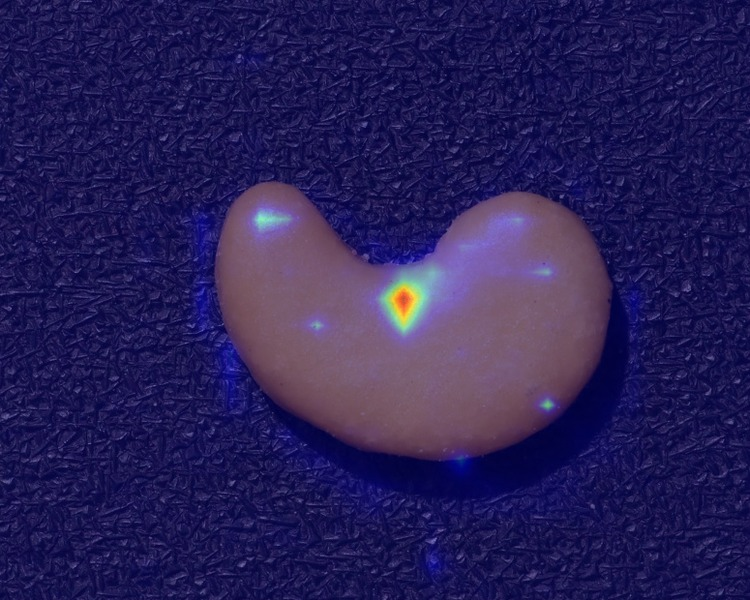
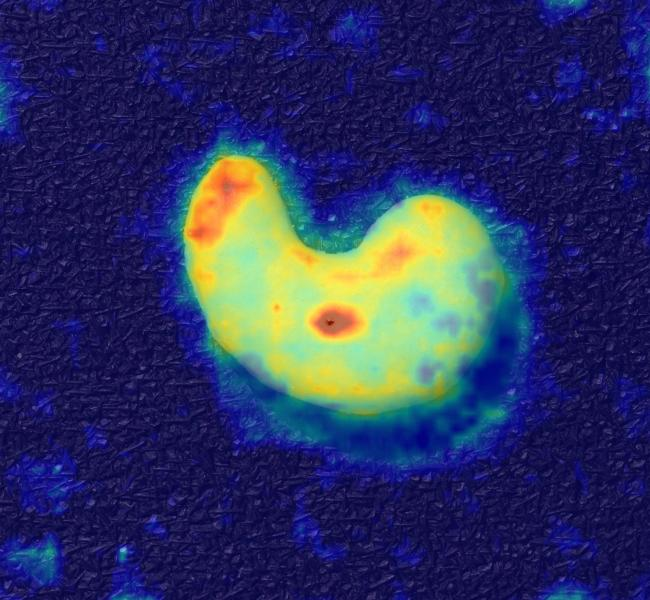
Add VisA-D&R dialogue figure from the reported checkpoint
- New Fig. fig:text: three VisA-D&R conversations (cashew, pipe fryum,
  pcb3) of GenAU-7B, verbatim from the run scored in Table 4, chosen at the
  class-median GPT-Score; per-answer GPT-4o scores shown
- Anomaly maps read out from the first-turn segmentation tokens in a re-run
  of that turn on the same 1024-px input
- Paragraph noting that the maps are more reliable than the first-turn text
- Update TODO

diff --git a/sec/7_appendix.tex b/sec/7_appendix.tex
@@ -428,6 +428,8 @@ We provide additional anomaly maps of GenAU-7B for five products, each with eigh
 
 On the tubes, the deformed tube receives the strongest response in most images, while the intact tubes show a weaker, uniform activation. On the capsules, large defects such as leaks and misshapes are localized clearly, but small bubbles and discolorations receive only weak responses, and one map shows a diffuse response over the background. On the pipe fryum, breakage and spots near the edges are localized, while scratches are covered only coarsely and the object surface is moderately activated throughout. On the Real-IAD mounts, missing parts and pits are localized, but a contamination at the inner rim of the hole is missed (first image). On the rolled strip base, the defects are localized, and weaker responses also appear on salient structures such as the screw holes and diagonal ribs, in line with the weak boundary responses noted in Sec.~5.5.1 of the main paper.
 
+\cref{fig:text} shows complete VisA-D\&R conversations, chosen at the class-median GPT-Score rather than as best cases. In the first turn GenAU answers and emits the segmentation tokens; in all three images the strongest response of the resulting map lies on the annotated defect, with weaker responses on the upper lobe of the cashew and on the PCB's LED. The text is less reliable than the maps: GenAU describes the cashew's hole as a dark spot, calls the pipe fryum a pill, and attributes the PCB anomaly to a bent transistor lead, while its own map highlights the excess solder on the potentiometer that the reference names. Once the follow-up question names the defect, the explanations of its significance, causes, and prevention are mostly consistent with the reference, which matches the gap between low-level and complex GPT-Scores in Table~4 of the main paper.
+
 \begin{figure*}
   \centering
   \includegraphics[width=\textwidth]{imgs/tubes.jpg}
@@ -461,5 +463,51 @@ On the tubes, the deformed tube receives the strongest response in most images, 
   \includegraphics[width=\textwidth]{imgs/rolled_strip_base.jpg}
   \caption{Rolled strip base (Real-IAD). Ground truth is outlined in red (small defects are additionally marked with a dashed box); the second row shows the GenAU-7B anomaly maps.}
   \label{fig:rolled_strip_base}
+\end{figure*}
+
+\newcommand{\seg}[1]{{\setlength{\fboxsep}{0.8pt}\fcolorbox{orange!70!black}{orange!12}{\scriptsize\ttfamily #1}}}
+\newcommand{\dlguser}[1]{\par\noindent{\setlength{\fboxsep}{2.5pt}\fcolorbox{black!35}{black!4}{\parbox{\dimexpr\linewidth-2\fboxsep-0.8pt}{\scriptsize\textbf{User:} #1}}}\par\vspace{1.5pt}}
+\newcommand{\dlggenau}[2]{\par\noindent{\setlength{\fboxsep}{2.5pt}\fcolorbox{green!45!black}{green!6}{\parbox{\dimexpr\linewidth-2\fboxsep-0.8pt}{\scriptsize\textbf{GenAU:} #1\hfill{\color{black!55}[GPT-4o: #2]}}}}\par\vspace{3pt}}
+
+\begin{figure*}
+  \centering
+\begin{minipage}[t]{0.325\textwidth}
+  {\small\textbf{Cashew (VisA)}}\\[2pt]
+  \includegraphics[width=0.495\linewidth]{imgs/a6_cashew_input.jpg}\hfill\includegraphics[width=0.495\linewidth]{imgs/a6_cashew_map.jpg}\\[3pt]
+  \dlguser{Does the cashew nut in the image have any anomalies? If yes, segment it.}
+  \dlggenau{Yes, there is a small, dark spot on the upper right side of the cashew nut's surface, which appears as a puncture or blemish \seg{[SEG\_defect]}~\seg{[SEG\_normal]}.}{8}
+  \dlguser{Why is the hole in the cashew nut considered an anomaly?}
+  \dlggenau{The hole is considered an anomaly because it disruptss the smooth, intact surface of the nut, which is typical for a healthy cashew.}{9}
+  \dlguser{What might have caused the anomaly in the cashew nut?}
+  \dlggenau{The anomaly could be caused by a puncture or a natural defect in the nut's shell.}{6}
+  \dlguser{Can you suggest ways to prevent this kind of anomaly in cashew nuts in the future?}
+  \dlggenau{To prevent such anomalies, ensure proper handling and storage to avoid physical damage. Additionally, using protective packaging during transportation can help maintain the nuts' integrity.}{5}
+\end{minipage}\hfill
+\begin{minipage}[t]{0.325\textwidth}
+  {\small\textbf{Pipe fryum (VisA)}}\\[2pt]
+  \includegraphics[width=0.495\linewidth]{imgs/a6_fryum_input.jpg}\hfill\includegraphics[width=0.495\linewidth]{imgs/a6_fryum_map.jpg}\\[3pt]
+  \dlguser{Is there any anomaly visible in the image? If yes, segment it.}
+  \dlggenau{Yes, there is an anomaly. A small, light-colored spot is visible on the upper right section of the pill \seg{[SEG\_defect]}~\seg{[SEG\_normal]}.}{8}
+  \dlguser{What makes this spot on the fryum an anomaly?}
+  \dlggenau{The anomaly is a small, light-colored spot that contrasts with the pill's uniform color.}{1}
+  \dlguser{What could have caused this spot to appear on the fryum?}
+  \dlggenau{The spot could be due to contamination, a manufacturing defect, or an external substance adhering to the pill.}{8}
+  \dlguser{What steps can be taken to prevent such anomalies in the future?}
+  \dlggenau{Enhancing quality control during manufacturing, ensuring cleanliness and sterility, and conducting regular inspections can help prevent such anomalies.}{9}
+\end{minipage}\hfill
+\begin{minipage}[t]{0.325\textwidth}
+  {\small\textbf{PCB (VisA, pcb3)}}\\[2pt]
+  \includegraphics[width=0.495\linewidth]{imgs/a6_pcb_input.jpg}\hfill\includegraphics[width=0.495\linewidth]{imgs/a6_pcb_map.jpg}\\[3pt]
+  \dlguser{Are there any observable anomalies in the PCB image? If yes, segment it.}
+  \dlggenau{Yes, there is an anomaly involving the transistor on the board. The transistor's lead is bent and appears damaged, which could disrupt its functionality \seg{[SEG\_defect]}~\seg{[SEG\_normal]}.}{1}
+  \dlguser{Why is the excessive solder considered an anomaly?}
+  \dlggenau{The excessive solder is considered an anomaly because it can lead to short circuits, improper connections, or overheating issues.}{8}
+  \dlguser{What could be the cause of this soldering error?}
+  \dlggenau{The excessive solder could be caused by improper handling of the soldering iron, insufficient cooling, or a lack of experience in soldering.}{8}
+  \dlguser{What measures could be implemented to prevent such anomalies?}
+  \dlggenau{To prevent such anomalies, it's important to use proper soldering techniques, ensure the board is well-ventilated, and use a soldering iron with a temperature control feature.}{6}
+\end{minipage}
+  \caption{VisA-D\&R conversations of GenAU-7B, verbatim (including errors) from the run scored in Table~4 of the main paper. For each class we show the conversation at the class-median GPT-Score among those whose first answer reports an anomaly; [GPT-4o: $s$] is the judge's score of each answer against the reference ($1$--$10$). Left image: input with the ground truth outlined in red (dashed box around small defects); right image: the anomaly map read out from the segmentation tokens of the first answer, in a re-run of that turn on the same input. Segmentation tokens emitted in later answers are omitted.}
+  \label{fig:text}
 \end{figure*}
 

diff --git a/TODO.md b/TODO.md
@@ -24,8 +24,9 @@ Paths starting with `../` are in the parent GenAU repo.
       Check the page count afterwards.
 - [ ] Upload `appendix.pdf` (review format; was 10 pages before the figure update). Anonymity was checked: no author metadata or
       local paths; the only author name is in the MultiADS reference.
-- [ ] Optional: add a language example figure built from real outputs of the reported checkpoint
-      (e.g. VisA-D&R answers), never from `imgs/text.pdf`.
+- [x] Added the language example (Fig. `fig:text`, Qualitative Results): three VisA-D&R conversations of the
+      reported 7B run, verbatim, at the class-median GPT-Score; maps from a re-run of the first turn
+      (`../scripts/figures/render_dialogue.py`). Check its layout when recompiling (never compiled locally).
 
 ## Housekeeping
 
